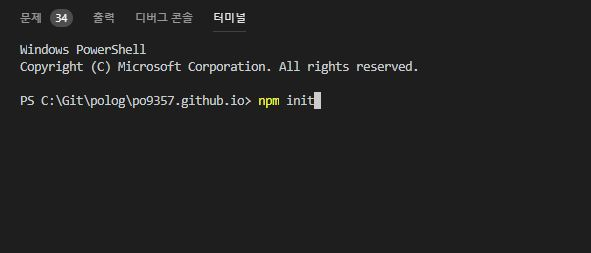
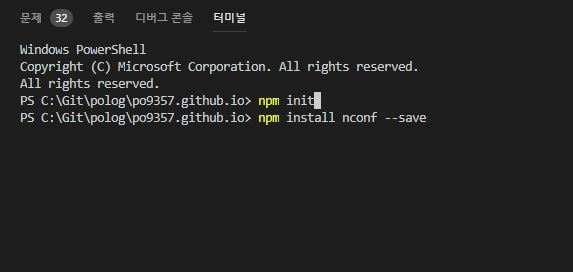
js

Changed region(s): [[0.0297, 0.166, 0.7417, 0.4704], [0.0297, 0.0277, 0.445, 0.1383]]

diff --git a/Node.js/_posts/2019-02-03-node_jsBasic.md b/Node.js/_posts/2019-02-03-node_jsBasic.md
@@ -1,0 +1,78 @@
+---
+layout: post
+title: <p>[Node] Node사용을 위한 기본 자바스크립트</p>
+description: >
+  노드를 사용하기 위해선 자바스크립트 활용이 필수다.<br> 
+  이를 위한 기본 자바스크립트 기능 몇 가지를 알아본다.
+image: /assets/img/programming.jpg
+---
+<head>
+  <link rel="stylesheet" type="text/css" href="../../assets/css/obsidian.css" />
+</head>
+
+<h2>자바스크립트의 객체와 함수</h2>
+
+### 객체 생성
+
+자바스크립트는 기본적으로 변수 선언시 타입을 지정하지 않는다.<br>
+**var** 키워드를 사용해 모든 변수를 생성할 수 있으며, <br>
+자바나 C언어처럼 변수의 타입지정 없이 사용한다.
+
+그렇기 때문에 객체 선언도 마찬가지로 **var** 키워드를 사용하고, 중괄호를 이용한다.<br>
+생성한 객체에 접근할 때에는 대괄호([])를 이용하거나 점(.) 뒤에 속성명을 붙여 접근할 수 있다.
+
+<script src="https://gist.github.com/po9357/ae647b23f39948db358c9587ad2ce9e7.js"></script>
+
+### 함수 생성
+
+변수 선언과 마찬가지로 함수 생성시에도 자바스크립트는 타입을 선언하지 않는다.<br>
+자바의 경우 해당 함수의 리턴값에 해당하는 타입을 함수 생성시 선언한다.<br>
+자바 스크립트의 경우 변수를 타입별로 명확히 구분하지 않기 때문에<br>
+함수도 마찬가지로 타입선언을 하지 않는다. 그렇다고 리턴값이 없는것은 아니다.<br>
+자바스크립트의 경우 **return**키워드를 사용하지 않는 함수라도 리턴은 무조건 일어나게 된다.
+
+<script src="https://gist.github.com/po9357/31fb1c5906a64ee16bf99ea98345a56f.js"></script>
+
+객체 안에서 함수를 선언: 
+
+<script src="https://gist.github.com/po9357/458612e94e55f5bf5edd249f7bcd4764.js"></script>
+
+
+
+## 배열
+
+여러 데이터를 한 곳에 차례로 저장할 수 있는 배열이다. <br>
+자바와 같이 인덱스를 이용해 원하는 순번의 데이터에 접근할 수 있다.<br>
+배열 안에 기본적인 데이터 타입들은 물론 객체도 저장할 수 있고, 저장시에는 **push**명령어를 사용한다.
+
+배열 안의 데이터를 하나하나 조회할땐 반복문을 사용한다. <br>
+자바와 동일한 for문을 사용해도 되고 자바스크립트의 forEach를 사용해도 된다.
+
+<script src="https://gist.github.com/po9357/2cdb755a075e1ea8b35b186deafd2f58.js"></script>
+
+
+### 배열 추가, 삭제
+
+배열에 데이터를 추가 혹은 삭제할때 사용할 수 있는 함수엔 여러가지가 있다.
+
+```javascript
+push(Object) // 배열 끝에 하나의 데이터 추가
+pop() // 배열 끝에 있는 데이터 삭제
+unshift() // 매열 앞에 데이터 추가
+shift() // 배열 앞에 있는 데이터 삭제
+splice(index, removeCount, [Object]) // 여러 데이터를 추가 혹은 삭제
+slice(index, copyCount) // 여러 데이터를 잘라 새로운 배열객체 생성
+```
+
+<script src="https://gist.github.com/po9357/355f29ff8ed40acaf40e06cf281cab24.js"></script>
+
+
+## 콜백 함수
+
+콜백함수란 함수 안에서 다른 함수를 파라미터로 전달해 처리할때 호출된 다른 함수를 말한다.<br>
+쉽게 말해 함수에서 호출한 함수라 할 수 있다.
+
+콜백함수는 보통 비동기처리에서 많이 쓰인다. 동기 처리 중에 시간이 걸리는 함수를 비동기처리하면<br>
+함수를 실행하는 동안 동기 처리도 진행되기 때문에 효율적으로 사용할 수 있다.
+
+<script src="https://gist.github.com/po9357/40762fa15c7546873c052eb9daae2421.js"></script>

diff --git a/Node.js/_posts/2019-02-01-node_module.md b/Node.js/_posts/2019-02-01-node_module.md
@@ -64,4 +64,3 @@ vs code의 경우 터미널 기능이 있어 별도의 cmd창을 키지 않고 n
 모듈을 다운받을 시에 **package.json**파일에 기록하기 위해선 **--save**명령어를 덧붙여야 한다.
 
 <img src="/assets/img/npmInit.JPG" width="500px">
-<img src="/assets/img/installSave.JPG" width="500px">
